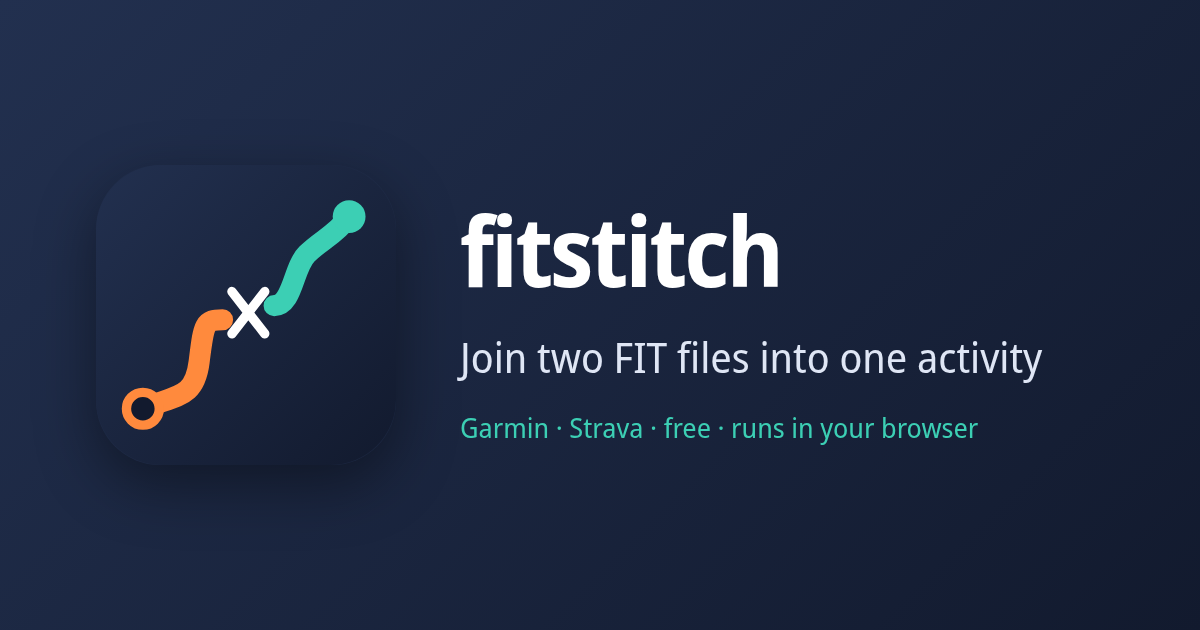
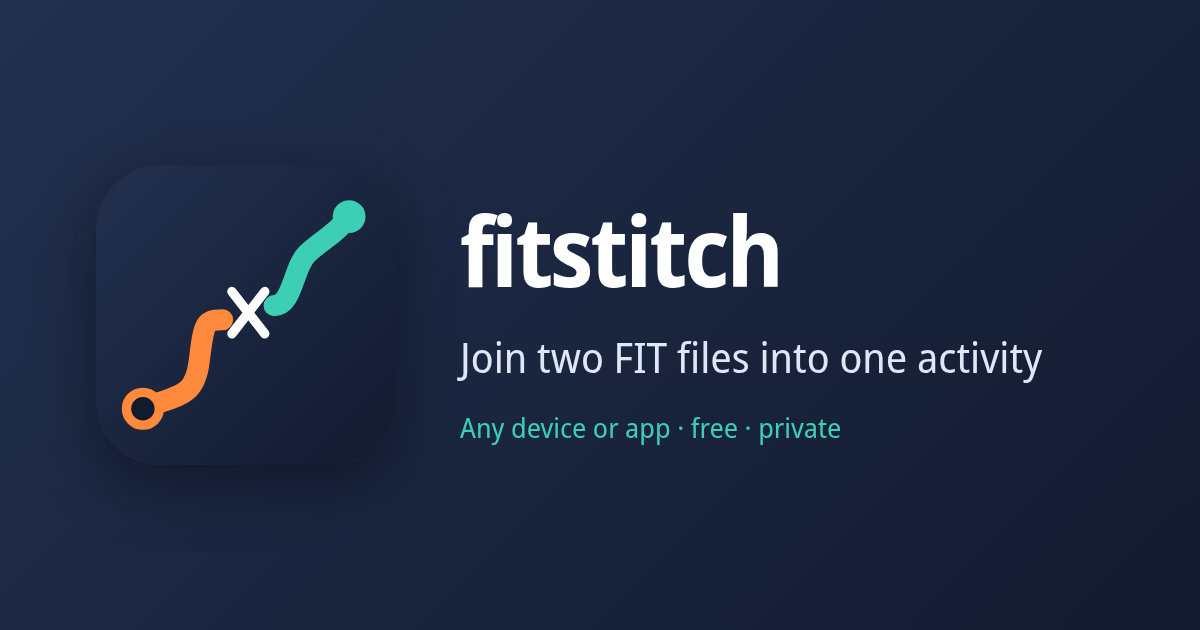
Word the tool, page and docs neutrally across devices and apps
fitstitch started with Garmin activities, but works with FIT files from
any device and the result goes to any app that accepts FIT files. Say
so tersely wherever vendors were named: "Garmin, Suunto, Wahoo,
Coros…" for devices and "Garmin Connect, Strava or any other app" for
destinations.

- Web page: description, the end of step 1 and step 4 (delete the parts
  wherever they were uploaded, then upload anywhere), in all languages;
  no vendor suffix in the title; neutral meta, Open Graph and schema.org
  descriptions; a new preview card ("Any device or app · free ·
  private"), whose URL is now versioned so link previews refresh.
- CLI: input help and the closing reminder.
- README, pyproject description and keywords.

Changed region(s): [[0.37, 0.6635, 0.8325, 0.6937]]

diff --git a/web/index.html b/web/index.html
@@ -3,9 +3,9 @@
 <head>
 <meta charset="utf-8">
 <meta name="viewport" content="width=device-width, initial-scale=1">
-<title>fitstitch – Join two FIT files into one activity · Garmin, Strava</title>
-<meta name="description" content="Join, merge or combine two FIT files into one activity: fix a run or ride you accidentally stopped and saved halfway. Works with Garmin, Strava, Wahoo, Coros and more. Free and private: runs in your browser, files are never uploaded, no data lost.">
-<meta name="keywords" content="join FIT files, merge FIT files, combine FIT files, stitch activities, Garmin Connect, Strava, accidentally stopped activity, split run, FIT file merger">
+<title>fitstitch – Join two FIT files into one activity</title>
+<meta name="description" content="Join, merge or combine two FIT files into one activity: fix a run or ride you accidentally stopped and saved halfway. Works with files from Garmin, Suunto, Wahoo, Coros and others; upload the result to Garmin Connect, Strava or any other sports app. Free and private: runs in your browser, files are never uploaded.">
+<meta name="keywords" content="join FIT files, merge FIT files, combine FIT files, stitch activities, accidentally stopped activity, FIT file merger, Garmin, Suunto, Wahoo, Coros, Garmin Connect, Strava">
 <meta name="google-site-verification" content="onb31Z5EYZlqBS5sE8n3xD6yryNcm8HQneMqn9leutQ">
 <meta name="msvalidate.01" content="00E7CFED34198C43F995B8781C14F63D">
 <link rel="canonical" href="https://jmallach.github.io/fitstitch/">
@@ -16,7 +16,7 @@
 <meta property="og:site_name" content="fitstitch">
 <meta property="og:url" content="https://jmallach.github.io/fitstitch/">
 <meta property="og:title" content="fitstitch – Join two FIT files into one activity">
-<meta property="og:description" content="Accidentally stopped and saved your run or ride halfway? Join the two FIT files back into one, with no data lost. Free and private: it runs in your browser and your files are never uploaded.">
+<meta property="og:description" content="Accidentally stopped and saved your run or ride halfway? Join the two FIT files back into one, with no data lost, and upload it to Garmin Connect, Strava or any other sports app. Free and private: it runs in your browser.">
 <meta property="og:image" content="https://jmallach.github.io/fitstitch/social.png">
 <meta property="og:image:width" content="1200">
 <meta property="og:image:height" content="630">
@@ -30,7 +30,7 @@
   "@type": "WebApplication",
   "name": "fitstitch",
   "url": "https://jmallach.github.io/fitstitch/",
-  "description": "Join, merge or combine two FIT activity files (Garmin, Strava, Wahoo, Coros…) into one, when an activity was accidentally stopped and saved halfway. No data is lost; files are processed in the browser and never uploaded.",
+  "description": "Join, merge or combine two FIT activity files from any device (Garmin, Suunto, Wahoo, Coros…) into one, when an activity was accidentally stopped and saved halfway. No data is lost; the result uploads to Garmin Connect, Strava and other sports apps. Files are processed in the browser and never uploaded.",
   "applicationCategory": "SportsApplication",
   "operatingSystem": "Any (web browser)",
   "browserRequirements": "Requires JavaScript and WebAssembly",
@@ -77,7 +77,7 @@
 
   <section>
     <h2 data-i18n="export_h">1. Export the parts</h2>
-    <p data-i18n="export_p">On <a href="https://connect.garmin.com/modern/activities">Garmin Connect</a>, open each activity, then ⚙ → <em>Export Original</em> (you get a .zip). On <a href="https://www.strava.com/athlete/training">Strava</a>, open each activity, then ⋯ → <em>Export Original</em>. Files from other apps work if they are .fit files.</p>
+    <p data-i18n="export_p">On <a href="https://connect.garmin.com/modern/activities">Garmin Connect</a>, open each activity, then ⚙ → <em>Export Original</em> (you get a .zip). On <a href="https://www.strava.com/athlete/training">Strava</a>, open each activity, then ⋯ → <em>Export Original</em>. FIT files from other devices and apps (Suunto, Wahoo, Coros…) work too.</p>
     <p class="note" data-i18n="export_note">The phone apps can't export files: use the websites, on a computer or in your phone's browser (if it keeps opening the app, ask for the desktop site).</p>
   </section>
 
@@ -111,12 +111,7 @@
 
   <section>
     <h2 data-i18n="replace_h">4. Replace the parts</h2>
-    <p data-i18n="replace_p"><strong>Delete the original parts</strong> on Garmin Connect and on
-    Strava first: both reject an upload with the same start time as an
-    existing activity. Kudos, comments, photos and titles on the parts are
-    lost. Then upload the stitched file on Garmin Connect (<em>Import
-    Data</em>). If it doesn't reach Strava on its own, upload it at
-    <a href="https://www.strava.com/upload/select">strava.com/upload</a>.</p>
+    <p data-i18n="replace_p"><strong>Delete the original parts</strong> first, wherever they were uploaded: Garmin Connect, Strava and most other apps reject an activity with the same start time as an existing one. Kudos, comments, photos and titles on the parts are lost. Then upload the stitched file to Garmin Connect (<em>Import Data</em>), <a href="https://www.strava.com/upload/select">Strava</a> or any other app that accepts FIT files. If your apps sync with each other, uploading it to one may be enough.</p>
   </section>
 
   <footer>

diff --git a/web/app.js b/web/app.js
@@ -152,7 +152,7 @@ async function setLanguage(lang) {
     el.setAttribute('aria-label', t(el.dataset.i18nLabel));
   }
   document.querySelector('meta[name=description]').content = t('description');
-  document.title = `fitstitch – ${t('tagline')} · Garmin, Strava`;
+  document.title = `fitstitch – ${t('tagline')}`;
   const canonical = new URL(location.pathname, location.origin);
   if (lang !== 'en') canonical.searchParams.set('lang', lang);
   document.querySelector('link[rel=canonical]').href = canonical.href;

diff --git a/fitstitch/cli.py b/fitstitch/cli.py
@@ -69,7 +69,7 @@ def main(argv=None):
                     'halfway) into a single activity, preserving all recorded data. The time '
                     'between parts becomes a pause.')
     p.add_argument('files', nargs='+', metavar='FILE',
-                   help='.fit files, or .zip files as exported by Garmin Connect ("Export Original")')
+                   help='.fit files, or .zip files holding one (e.g. "Export Original" in Garmin Connect)')
     p.add_argument('-o', '--output', help='output .fit file (default: stitched-<start time>.fit)')
     p.add_argument('-n', '--dry-run', action='store_true', help='show the result without writing a file')
     p.add_argument('-f', '--force', action='store_true',
@@ -116,8 +116,9 @@ def main(argv=None):
     with open(out, 'wb') as f:
         f.write(data)
     say(f'\nWrote {out}')
-    say('Before uploading, delete the original parts on Garmin Connect / Strava: they reject\n'
-        'an activity with the same start time as an existing one as a duplicate.')
+    say('Before uploading, delete the original parts wherever they were uploaded: Garmin\n'
+        'Connect, Strava and most other apps reject an activity with the same start time\n'
+        'as an existing one as a duplicate.')
     return 0
 
 

diff --git a/tools/build_web.py b/tools/build_web.py
@@ -74,6 +74,9 @@ def build(out):
     html = page.read_text()
     for name in ('style.css', 'app.js'):
         html = html.replace(f'"{name}"', f'"{name}?v={version}"')
+    # link previews are cached by image URL, so version the card too
+    card = hashlib.sha256((out / 'social.png').read_bytes()).hexdigest()[:10]
+    html = html.replace(f'{SITE}social.png"', f'{SITE}social.png?v={card}"')
     page.write_text(html)
     return out
 

diff --git a/README.md b/README.md
@@ -4,6 +4,10 @@ Stitch FIT activities that were accidentally split (stopped and saved
 halfway) back into one, offline and without losing data. The result is the
 activity you would have had if you had pressed pause instead of saving.
 
+It works with FIT files from any device (Garmin, Suunto, Wahoo, Coros…),
+and the stitched file uploads to Garmin Connect, Strava and other sports
+apps.
+
 ```
 $ fit-stitch part1.zip part2.zip -o run.fit
                                Part 1               Part 2             Stitched
@@ -47,27 +51,30 @@ is used for field names and units, and to check the output independently.
 fit-stitch PART1 PART2 [PART3...] [-o OUTPUT] [-n] [-f] [--overwrite]
 ```
 
-- Inputs are `.fit` files or the `.zip` files Garmin Connect produces with
-  *Export Original*. You can give them in any order; they are sorted by
-  start time.
+- Inputs are `.fit` files, or `.zip` files holding one (such as Garmin
+  Connect's *Export Original*). You can give them in any order; they are
+  sorted by start time.
 - `-n/--dry-run` shows the result and the checks without writing anything.
 - `-f/--force` stitches parts even if the sport or the recording device
   differ.
 - If the output fails any check, the tool writes nothing and exits with
   status 2.
 
-### Replacing the activity on Garmin Connect and Strava
+### Replacing the original activities
 
-1. Export each part from the Garmin Connect website (activity → ⚙ →
-   *Export Original*) or the Strava website (activity → ⋯ → *Export
-   Original*). The phone apps can't export files; in a phone's browser,
-   ask for the desktop site if it keeps opening the app.
+1. Export the original FIT file of each part from your sports app. On
+   the Garmin Connect website: activity → ⚙ → *Export Original*; on the
+   Strava website: activity → ⋯ → *Export Original*. Their phone apps
+   can't export files; in a phone's browser, ask for the desktop site if
+   it keeps opening the app.
 2. Run `fit-stitch`, or use the web page.
-3. **Delete the original parts** on Garmin Connect and on Strava. Both
-   reject an upload with the same start time as an existing activity as a
-   duplicate. Kudos, comments, photos, titles and gear on the parts are lost.
-4. Upload the stitched file in Garmin Connect (*Import Data*). If it doesn't
-   reach Strava on its own, upload it at strava.com/upload/select.
+3. **Delete the original parts** wherever they were uploaded. Garmin
+   Connect, Strava and most other apps reject an activity with the same
+   start time as an existing one as a duplicate. Kudos, comments, photos,
+   titles and gear on the parts are lost.
+4. Upload the stitched file to Garmin Connect (*Import Data*), Strava
+   (strava.com/upload/select) or any other app that accepts FIT files. If
+   your apps sync with each other, uploading it to one may be enough.
 
 ## What it does
 
@@ -99,14 +106,15 @@ copied as it was, including undocumented Garmin messages and developer
   the fastest of the parts is kept.
 - **Setup messages** (user profile, device settings, sport, zones, course):
   the first part's copy is kept.
-- **Layout**: the first part's message order is followed. Newer Garmin
-  watches write summaries before the data; older devices write them after.
+- **Layout**: the first part's message order is followed. Some devices
+  (such as newer Garmin watches) write summaries before the data; others
+  write them after.
 
 ## Limitations
 
 - **Values calculated on the watch** (Training Effect, training load,
-  recovery time, VO2max update) come from Garmin's proprietary algorithms and
-  cannot be recalculated. The tool keeps the higher Training Effect of the
+  recovery time, VO2max update) come from the watch maker's proprietary
+  algorithms and cannot be recalculated. The tool keeps the higher Training Effect of the
   parts and adds up training load, which leaves your weekly load unchanged.
 - **Auto laps** restart at the beginning of each part, so the lap before the
   gap is a partial one, as if you had pressed the lap button.
